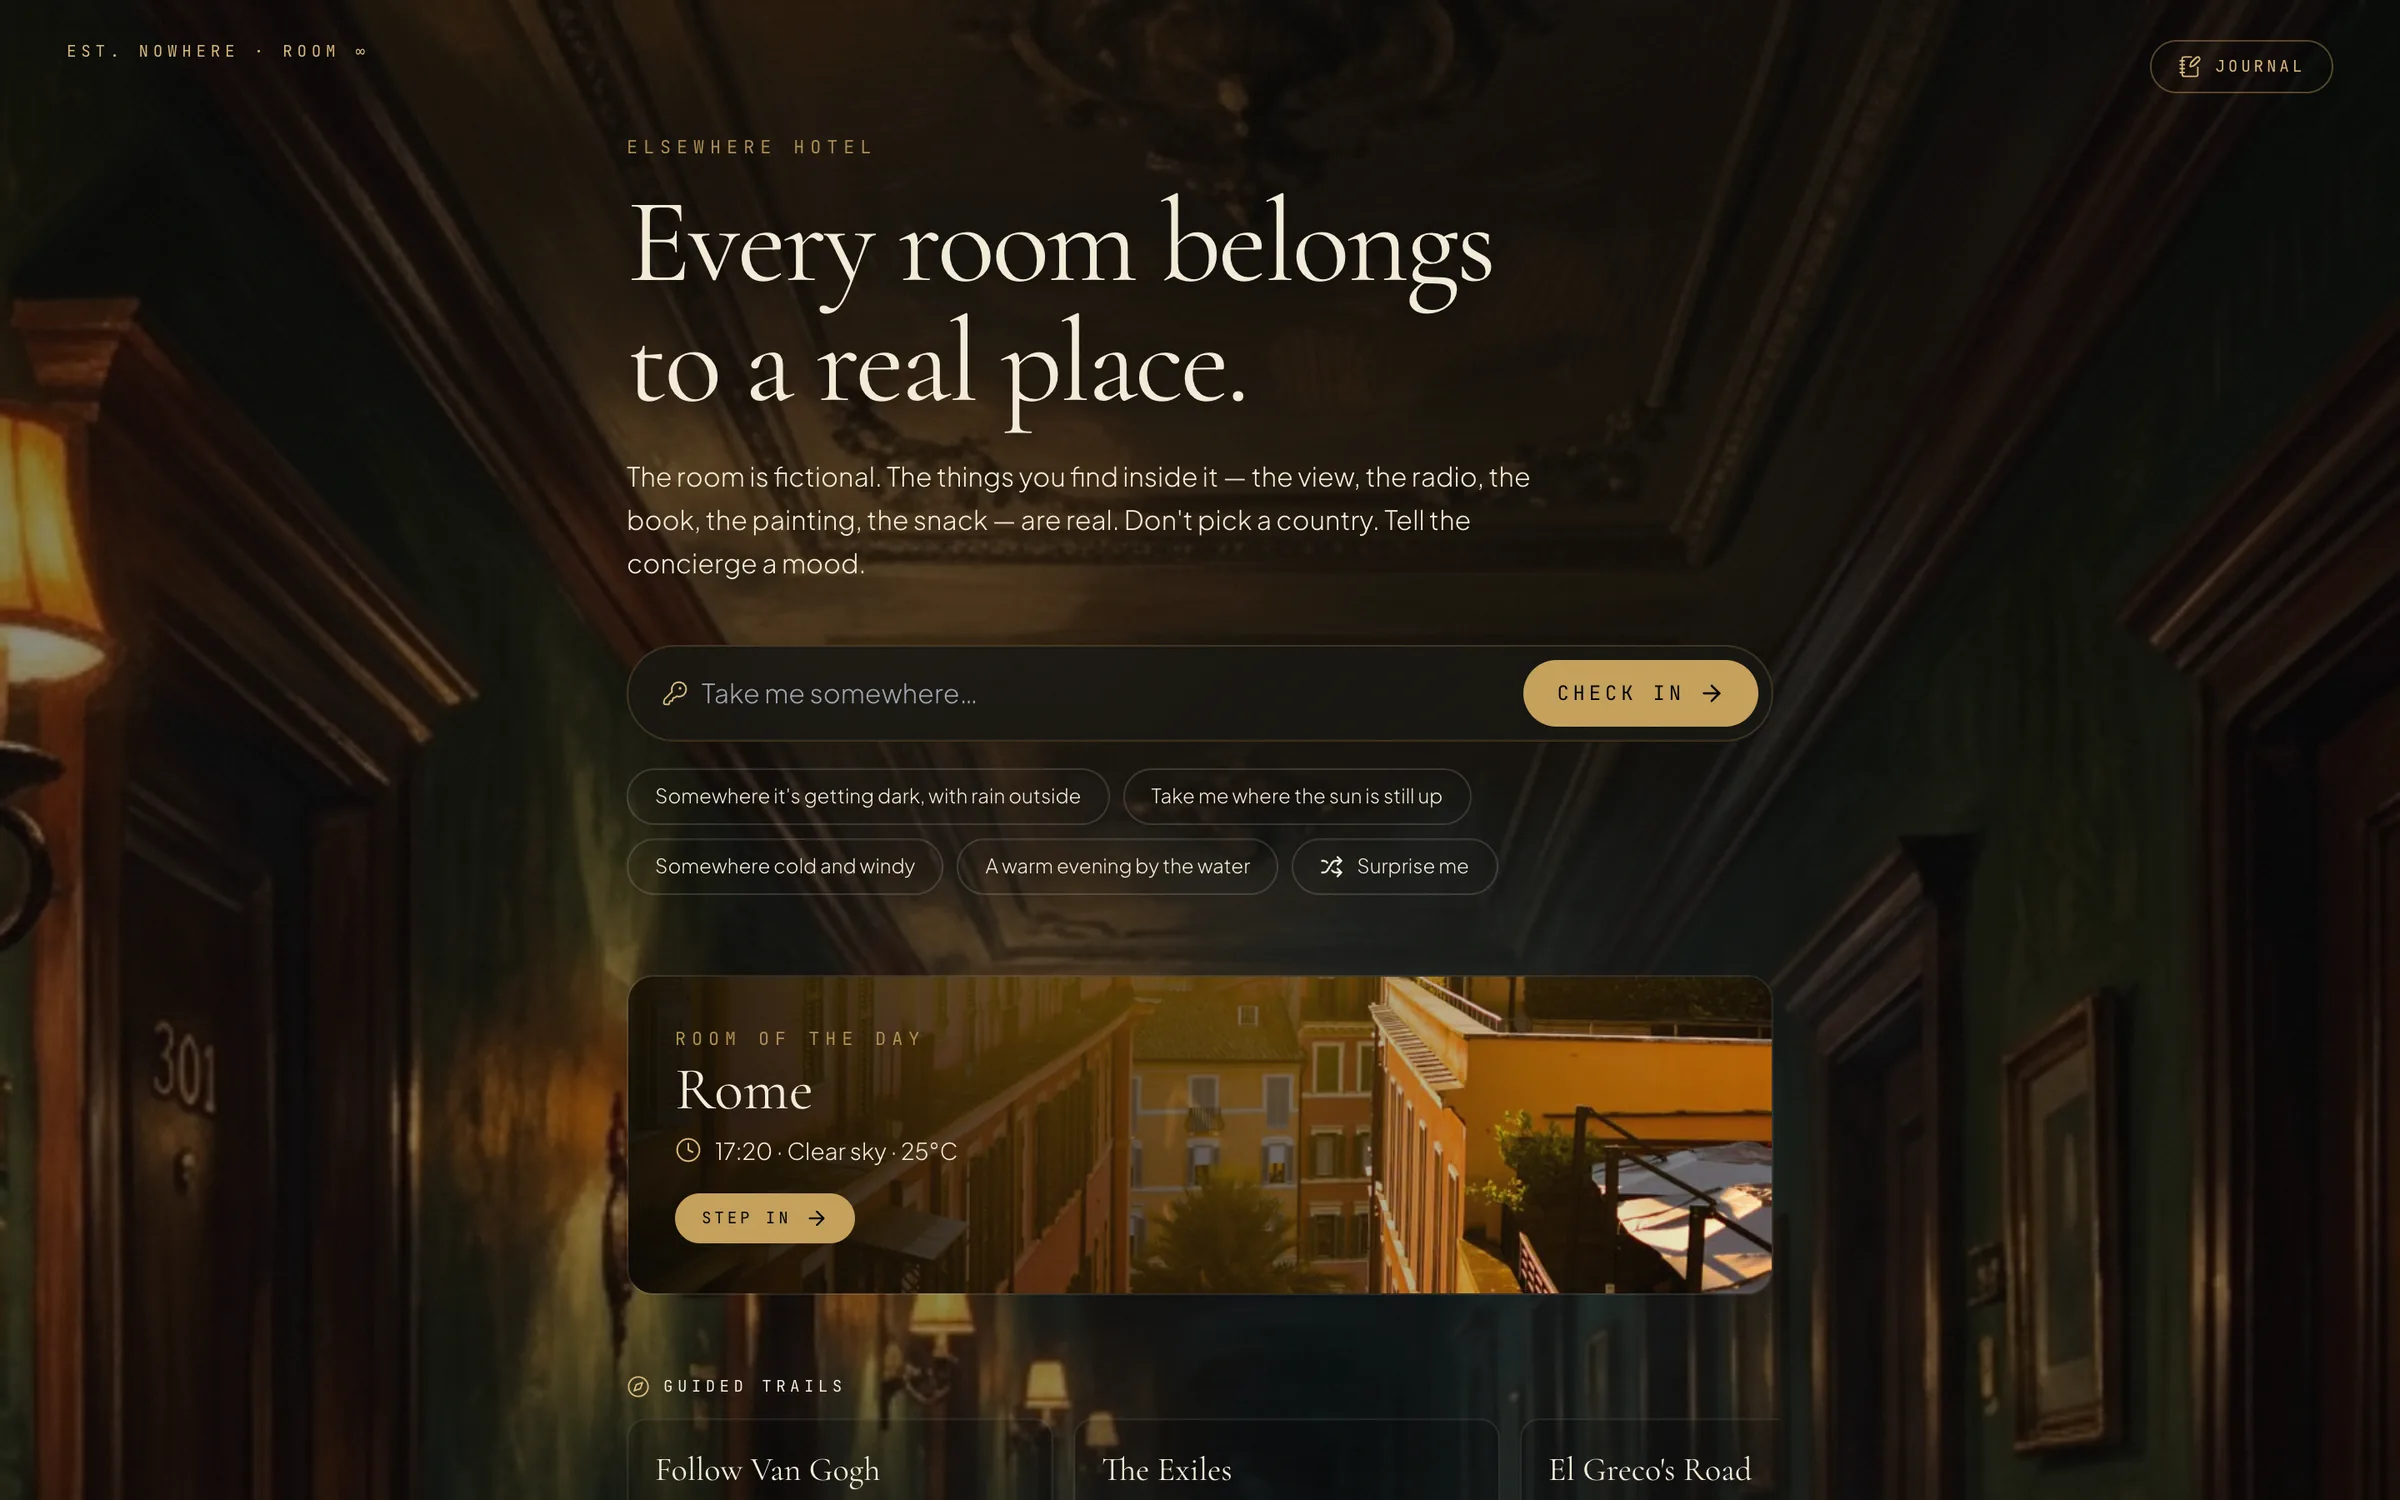
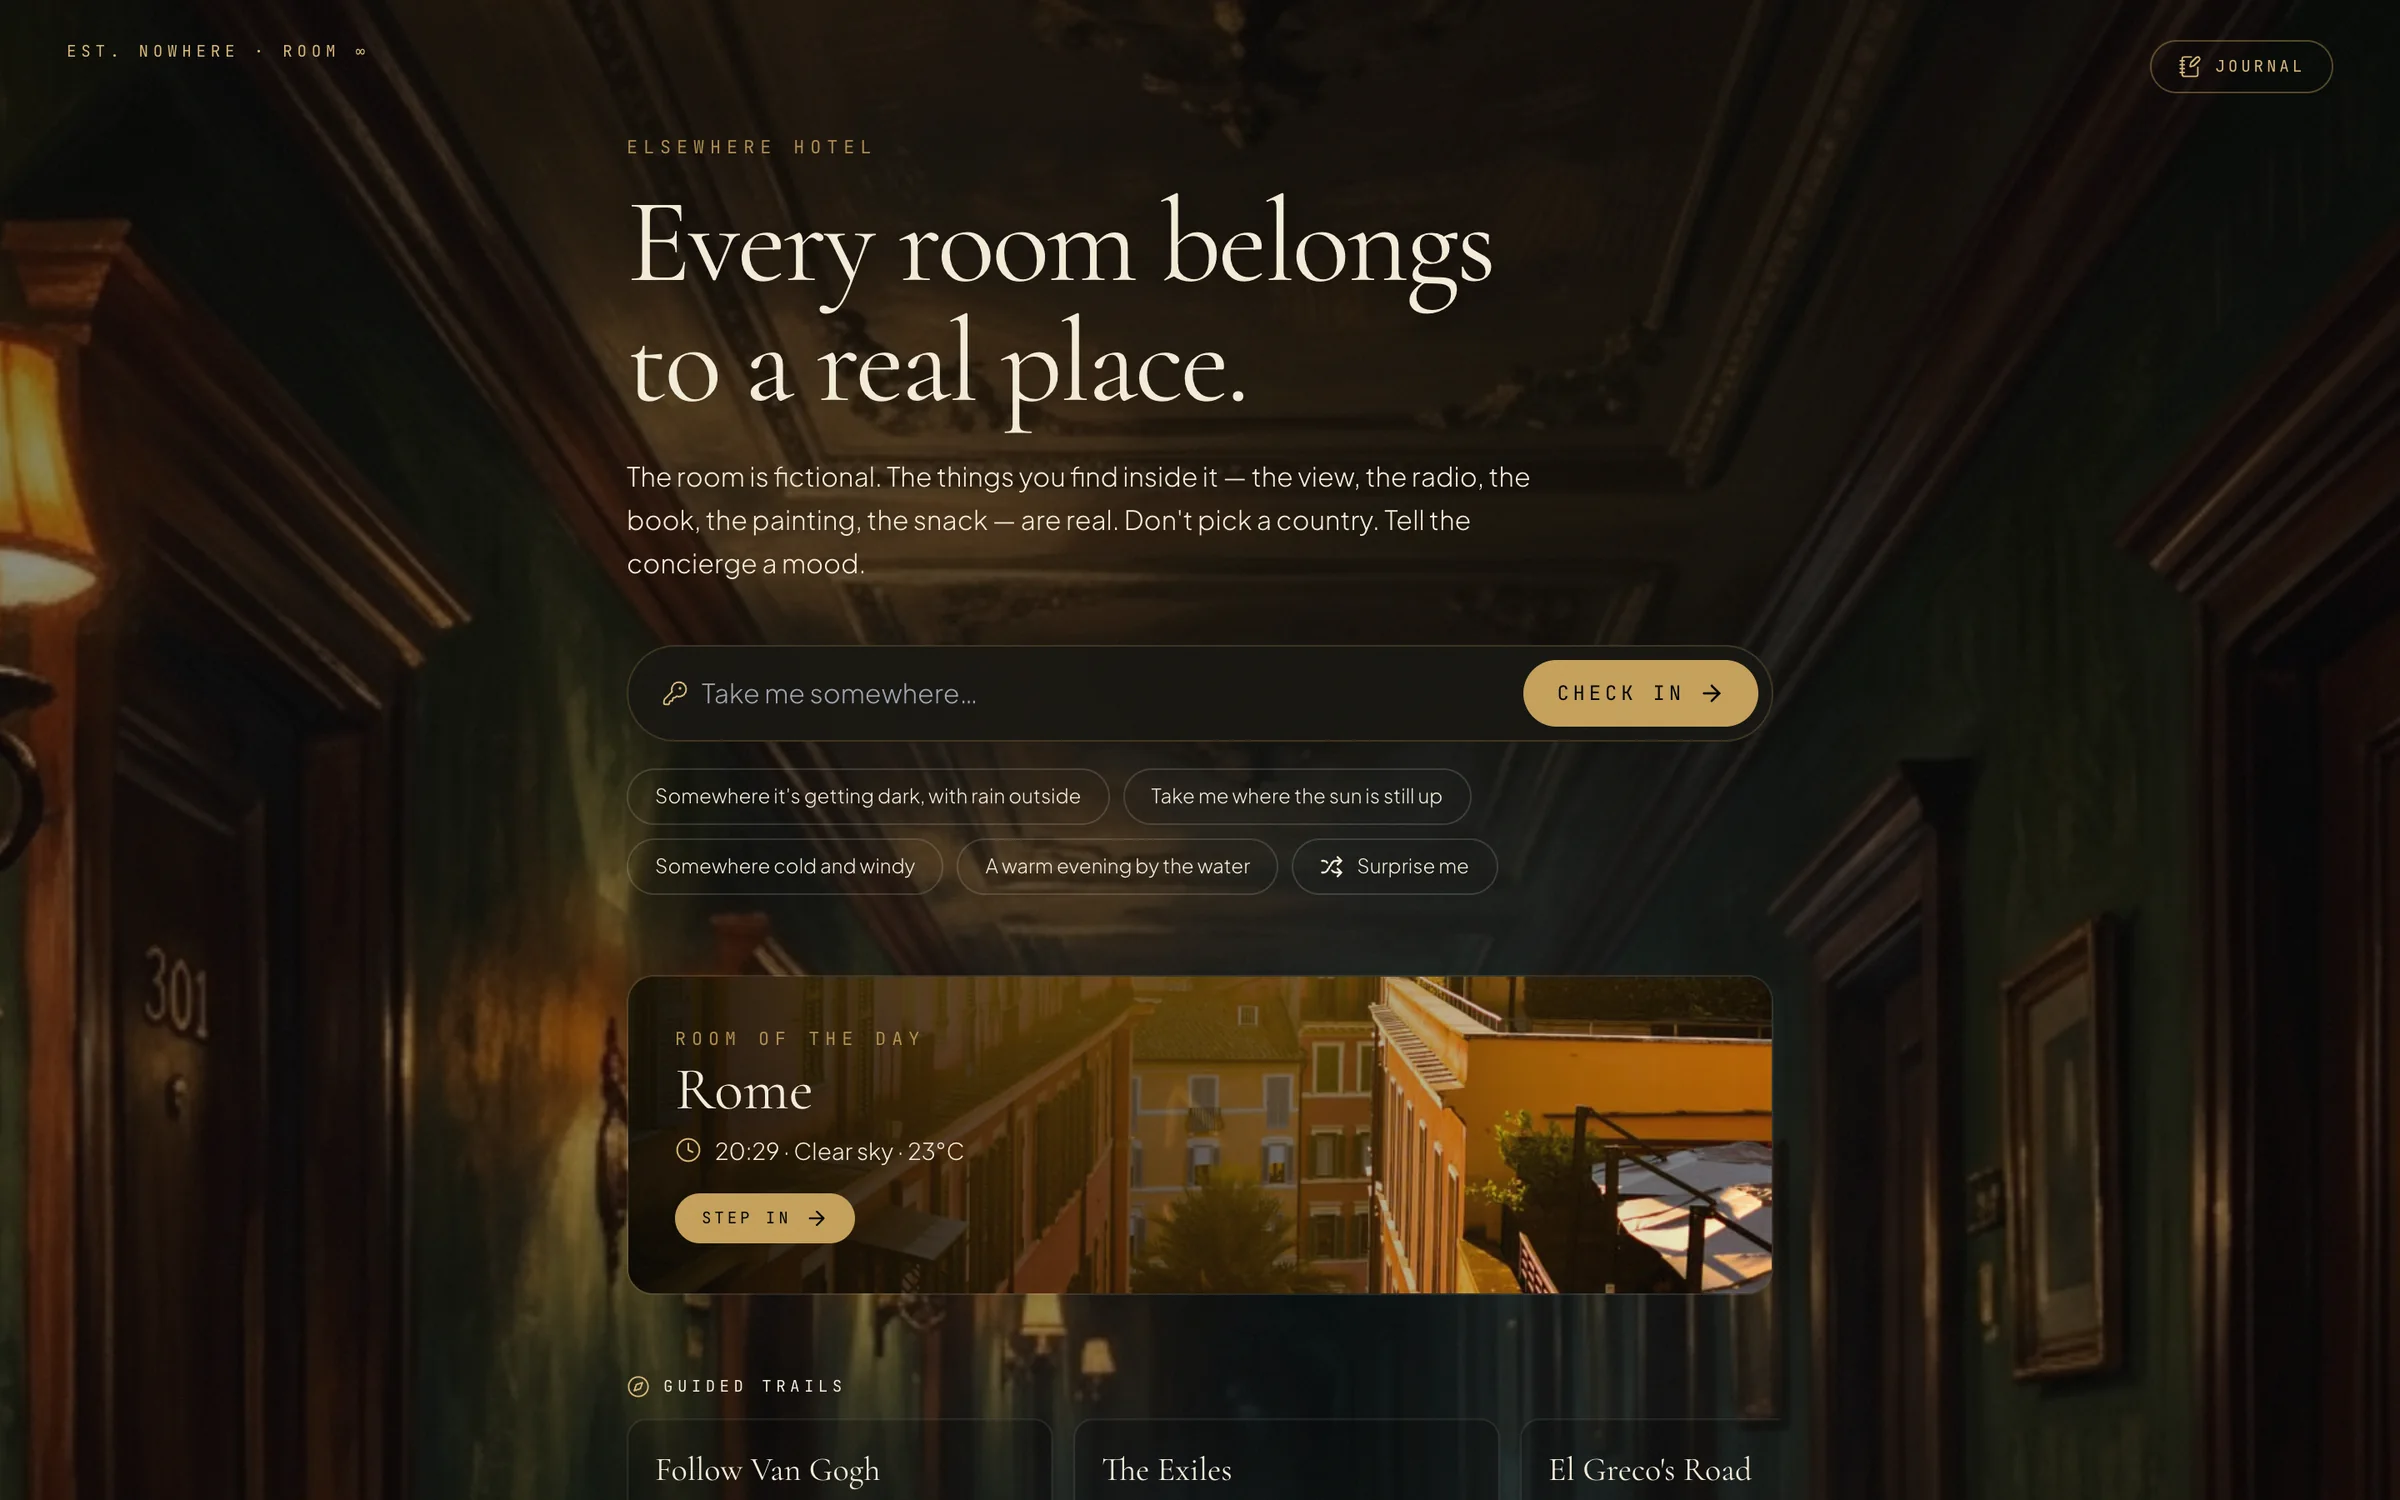
Elsewhere Hotel from the live site; app links in notes; richer sitemap
- Elsewhere Hotel: fresh 2x screenshots of elsewherehotel.abosh.io
  (painted lobby, Lisbon room, window, painting, Paris). Copy updated to
  the live product: 26 rooms, 5 guided trails, light follows the sun.
- Notes link to the apps where they make the point: Cargo & Consequence
  and Foreviq in the flow article, the OEE calculator and Vrolen in the
  OEE article, and a table placing Vrolen, Foreviq, Chanshambe and the
  content engine on the AI autonomy ladder.
- Sitemap: image entries for every work, note figure image, portrait and
  share image; changefreq per page type; notes weighted above the index;
  /notes lastmod from the newest note. Validated: 18 URLs, 55 images, all
  resolve, no built page missing.

diff --git a/content/site.ts b/content/site.ts
@@ -243,26 +243,25 @@ export const works: Work[] = [
   {
     slug: "elsewhere-hotel",
     name: "Elsewhere Hotel",
-    line: "A drawn hotel room for a real city. The view, radio, book and painting inside it are live and real.",
+    line: "A painted hotel room for a real city. The view, radio, book and painting inside it are live and real.",
     status: "Running",
     href: "https://elsewherehotel.abosh.io",
     hrefLabel: "elsewherehotel.abosh.io",
-    image: { src: "/work/elsewhere-hotel/paris.webp", alt: "Elsewhere Hotel: the Paris room, with a live view of Pont Alexandre III and Van Gogh's Bedroom on the wall", width: 2400, height: 1500 },
+    image: { src: "/work/elsewhere-hotel/lobby.webp", alt: "Elsewhere Hotel lobby: every room belongs to a real place. Tell the concierge a mood to check in", width: 2400, height: 1500 },
     gallery: [
-      { src: "/work/elsewhere-hotel/lobby.webp", alt: "Elsewhere Hotel lobby: tell the concierge a mood to check in", width: 2400, height: 1500 },
-      { src: "/work/elsewhere-hotel/painting.webp", alt: "The painting on the wall: Van Gogh's The Bedroom, with its museum record", width: 2400, height: 1500 },
-      { src: "/work/elsewhere-hotel/book.webp", alt: "The book on the bed: Journey to the Centre of the Earth, with a door to Reykjavik", width: 2400, height: 1500 },
-      { src: "/work/elsewhere-hotel/window.webp", alt: "The window: Paris at dusk with the live local time, weather, sunrise and sunset", width: 2400, height: 1500 },
+      { src: "/work/elsewhere-hotel/lisbon.webp", alt: "The Lisbon room at dusk: a live view of the Tagus bridge and a painting of Lisbon's harbour", width: 2400, height: 1500 },
+      { src: "/work/elsewhere-hotel/window.webp", alt: "The window in Lisbon: a located photo of the city with live local time, weather, sunrise and sunset", width: 2400, height: 1500 },
+      { src: "/work/elsewhere-hotel/painting.webp", alt: "The painting on the wall: The Tagus in Lisbon by Tomás Campuzano, 1884, from Wikimedia Commons", width: 2400, height: 1500 },
+      { src: "/work/elsewhere-hotel/paris.webp", alt: "The Paris room, with the Eiffel Tower in the window and Van Gogh's Bedroom on the wall", width: 2400, height: 1500 },
     ],
     stats: [
-      { value: "20", label: "rooms in real cities" },
-      { value: "32", label: "doors from one city to another" },
-      { value: "11", label: "live data sources" },
+      { value: "26", label: "rooms in real cities" },
+      { value: "5", label: "guided trails between cities" },
     ],
     body: [
-      "Tell the concierge a mood, like \u201csomewhere it's getting dark, with rain\u201d, and it checks live weather and daylight to pick one of 20 rooms.",
-      "The room is illustrated, but everything in it is real: a photo of the view taken within 120 km, the local weather and sunset, a live local radio station, a public-domain book, a painting from a museum's open collection and a snack from an open food database.",
-      "Some objects are doors. Van Gogh's Bedroom on the wall in Paris leads to Arles, and the Jules Verne on the bed leads to Reykjavik. A travel journal keeps your stamps, and you can send the route to a friend.",
+      "Tell the concierge a mood, like \u201csomewhere it's getting dark, with rain\u201d, and it checks live weather and daylight to pick one of 26 rooms. The room's light follows the real sun, so Lisbon at dusk looks like dusk.",
+      "The room is painted, but everything in it is real: a located photo of the view, the local weather and sunset, a live local radio station, a public-domain book, a painting from an open museum collection and a snack from an open food database. Each object names its source.",
+      "Some objects are doors. Van Gogh's Bedroom on the wall in Paris leads to Arles, and guided trails follow writers and painters from city to city. A journal keeps your stamps, and you can send the route to a friend.",
     ],
   },
   {

diff --git a/app/sitemap.ts b/app/sitemap.ts
@@ -1,21 +1,67 @@
 import type { MetadataRoute } from "next";
-import { site, works } from "@/content/site";
+import { ogImage, site, works } from "@/content/site";
 import { getNotes } from "@/lib/notes";
 
 export const dynamic = "force-static";
 
+type Entry = MetadataRoute.Sitemap[number];
+const abs = (path: string) => `${site.url}${path}`;
+
+/** Images referenced by a note (::image lines), so they can appear in image search. */
+function noteImages(html: string) {
+  return [...html.matchAll(/<img src="([^"]+)"/g)].map((m) => (m[1].startsWith("http") ? m[1] : abs(m[1])));
+}
+
+/**
+ * Every public page, generated from content, so new works and notes appear
+ * automatically. /lab is excluded (dev only, disallowed in robots.txt).
+ */
 export default function sitemap(): MetadataRoute.Sitemap {
   const now = new Date();
-  const page = (path: string, priority: number, lastModified = now): MetadataRoute.Sitemap[number] => ({
-    url: `${site.url}${path}`,
-    lastModified,
-    priority,
+  const notes = getNotes();
+  const latestNote = notes.length ? new Date(`${notes[0].date}T12:00:00Z`) : now;
+
+  const home: Entry = {
+    url: abs("/"),
+    lastModified: now,
+    changeFrequency: "weekly",
+    priority: 1,
+    images: [abs(ogImage.url), ...works.filter((w) => w.featured).map((w) => abs(w.image.src))],
+  };
+
+  const workPages: Entry[] = works.map((w) => ({
+    url: abs(`/work/${w.slug}/`),
+    lastModified: now,
+    changeFrequency: "monthly",
+    priority: w.featured ? 0.8 : 0.7,
+    images: [w.image, ...w.gallery].map((g) => abs(g.src)),
+  }));
+
+  const about: Entry = {
+    url: abs("/about/"),
+    lastModified: now,
+    changeFrequency: "monthly",
+    priority: 0.8,
+    images: [abs("/about/portrait.webp")],
+  };
+
+  const notesIndex: Entry = {
+    url: abs("/notes/"),
+    lastModified: latestNote,
+    changeFrequency: "weekly",
+    priority: 0.7,
+  };
+
+  const notePages: Entry[] = notes.map((n) => {
+    const images = noteImages(n.html);
+    return {
+      url: abs(`/notes/${n.slug}/`),
+      lastModified: new Date(`${n.date}T12:00:00Z`),
+      changeFrequency: "yearly",
+      priority: 0.8,
+      ...(images.length ? { images } : {}),
+    };
   });
-  return [
-    page("/", 1),
-    ...works.map((w) => page(`/work/${w.slug}/`, 0.8)),
-    page("/about/", 0.7),
-    page("/notes/", 0.7),
-    ...getNotes().map((n) => page(`/notes/${n.slug}/`, 0.6, new Date(`${n.date}T12:00:00Z`))),
-  ];
+
+  return [home, ...workPages, about, notesIndex, ...notePages];
 }

diff --git a/content/notes/busy-machines-slower-orders.md b/content/notes/busy-machines-slower-orders.md
@@ -72,13 +72,17 @@ What worked for us at BAT was treating readiness as a gate every launch had to p
 
 Put simply: fewer things in flight, each one moving. That's Little's Law applied to a project portfolio.
 
+If you'd rather feel this than read it, I built a free browser game about exactly this: [Cargo & Consequence](https://playcargo.vrolen.com). You run a small company's supply chain one shift at a time, and the cheap supplier you pick on day one comes back as returns and delays weeks later. It's used in classrooms, and it's a surprisingly honest way to show a team why "just start more" backfires. More about it [here](/work/cargo-and-consequence/).
+
 ## A few questions for your own operation
 
 1. What decides when work is released: a due date, material availability, a WIP limit or the constraint's capacity?
 2. Do you know your takt time, and do your teams see the gap in units rather than percentages?
 3. If demand went up 10% tomorrow, would you release more work, or protect flow at the constraint?
 
-If you'd like to play with the numbers, the free [takt time calculator](https://vrolen.com/tools/takt-time-calculator/) on the Vrolen site runs entirely in your browser.
+Release decisions start with a demand number, and that number is often the weakest link. It's why I'm also building [Foreviq](/work/foreviq/), which forecasts demand per customer and product and nets open orders against it, so the same demand isn't counted twice.
+
+If you'd like to play with the numbers, the free [takt time calculator](https://vrolen.com/tools/takt-time-calculator/) on the [Vrolen](https://vrolen.com) site runs entirely in your browser. Testing release and scheduling rules on a model of the line, before changing the real one, is what [Vrolen](/work/vrolen/) is for.
 
 ## Sources
 

diff --git a/content/notes/same-oee-opposite-fixes.md b/content/notes/same-oee-opposite-fixes.md
@@ -83,11 +83,11 @@ That third question is where OEE and flow meet, and it's the subject of my note 
 
 ## Where software can help
 
-This is the logic I'm building into [Vrolen](/work/vrolen/): connect the score to the events underneath it, check whether the loss sits at the constraint, and test a countermeasure on a model of the line before anyone changes the real one.
+This is the logic I'm building into [Vrolen](https://vrolen.com) ([more about it here](/work/vrolen/)): connect the score to the events underneath it, check whether the loss sits at the constraint, and test a countermeasure on a model of the line before anyone changes the real one.
 
 ::image /work/vrolen/what-if.webp | Vrolen's guided what-if comparing cautious, balanced and ambitious options | Testing a countermeasure in Vrolen before touching the line. Cautious, balanced and ambitious options, side by side.
 
-The tool is the easy part, though. The habit that matters is asking "which minutes?" every time someone quotes a percentage.
+The tool is the easy part, though. The habit that matters is asking "which minutes?" every time someone quotes a percentage. If you want to try the translation on your own line, the free [OEE calculator](https://vrolen.com/tools/oee-calculator/) shows the minutes behind each factor.
 
 ## Sources
 

diff --git a/content/notes/digital-transformation-that-sticks.md b/content/notes/digital-transformation-that-sticks.md
@@ -61,6 +61,15 @@ How far up the ladder a decision goes depends on four things:
 
 I'd keep a person in the loop wherever safety, product quality, compliance, customer commitments or big production changes are involved. Everything else can climb, one step at a time, as the evidence builds.
 
+I apply the same ladder to what I build:
+
+| Product | Where it sits | Why |
+| --- | --- | --- |
+| [Vrolen](/work/vrolen/) | Recommend | It tests countermeasures and suggests one; a person approves any change to the line |
+| [Foreviq](/work/foreviq/) | Recommend | The assistant can propose a new forecast but can't publish one |
+| [Chanshambe](/work/chanshambe/) | Recommend | The family assistant drafts plans; nothing happens until someone approves |
+| [Content engine](/work/content-engine/) | Orchestrate | It writes, renders and schedules posts, which mostly wait as drafts for my approval |
+
 ## If you're starting a transformation program
 
 - Pick three processes that repeat every week and touch at least two systems.
